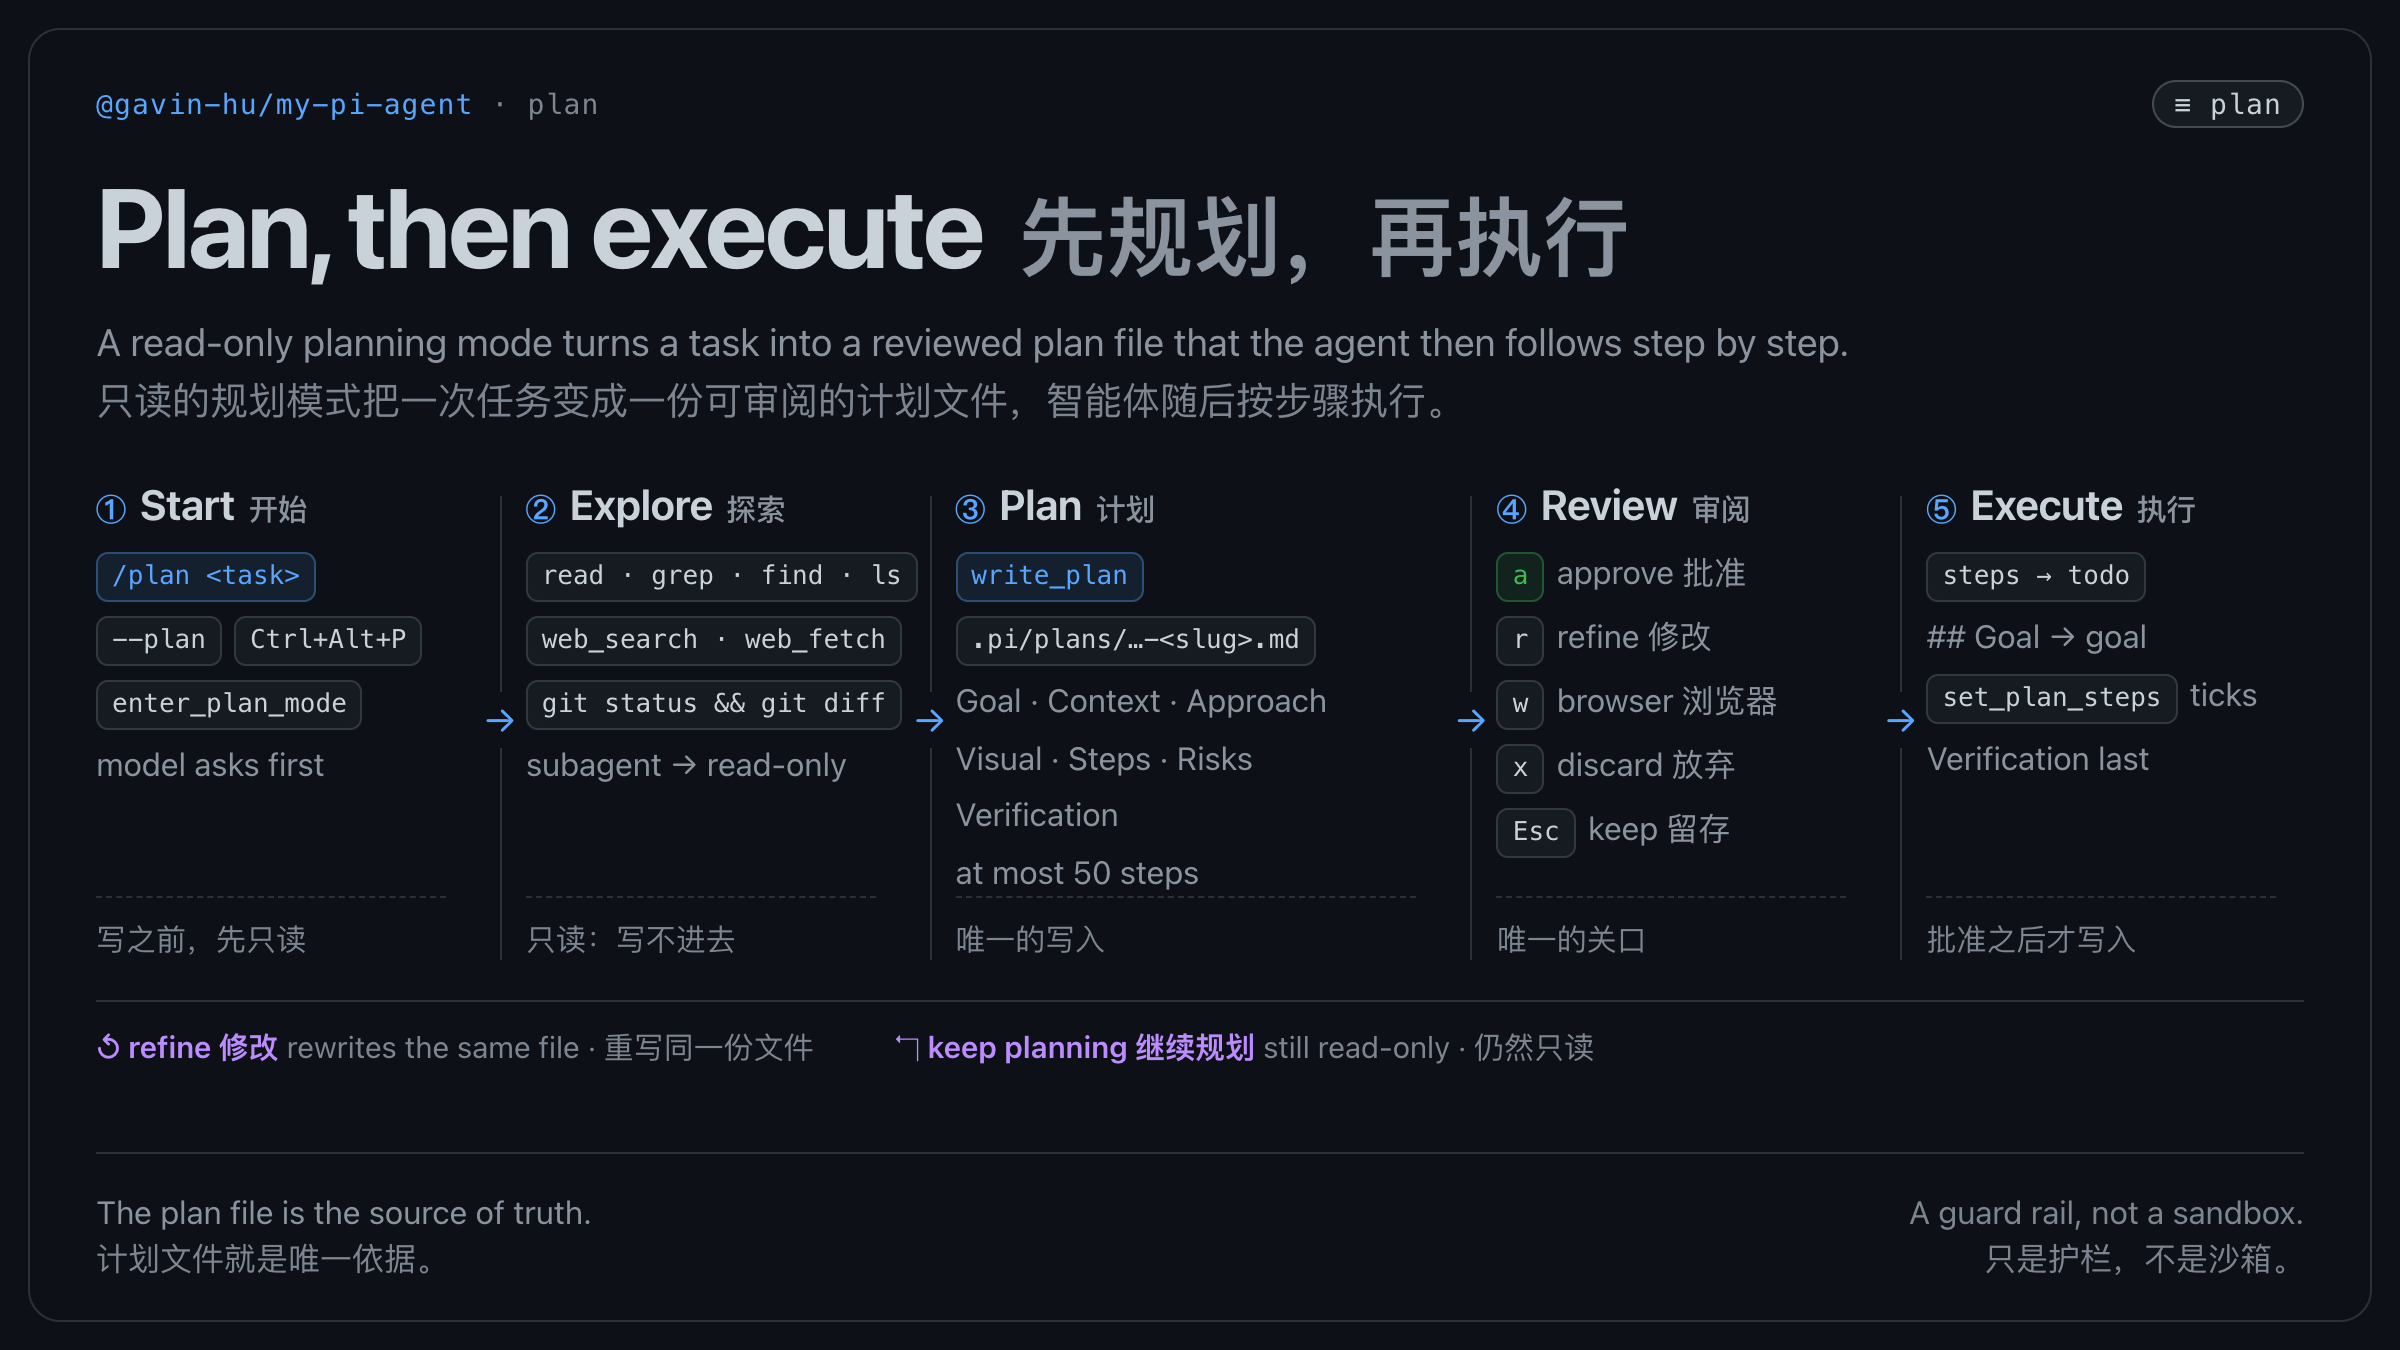
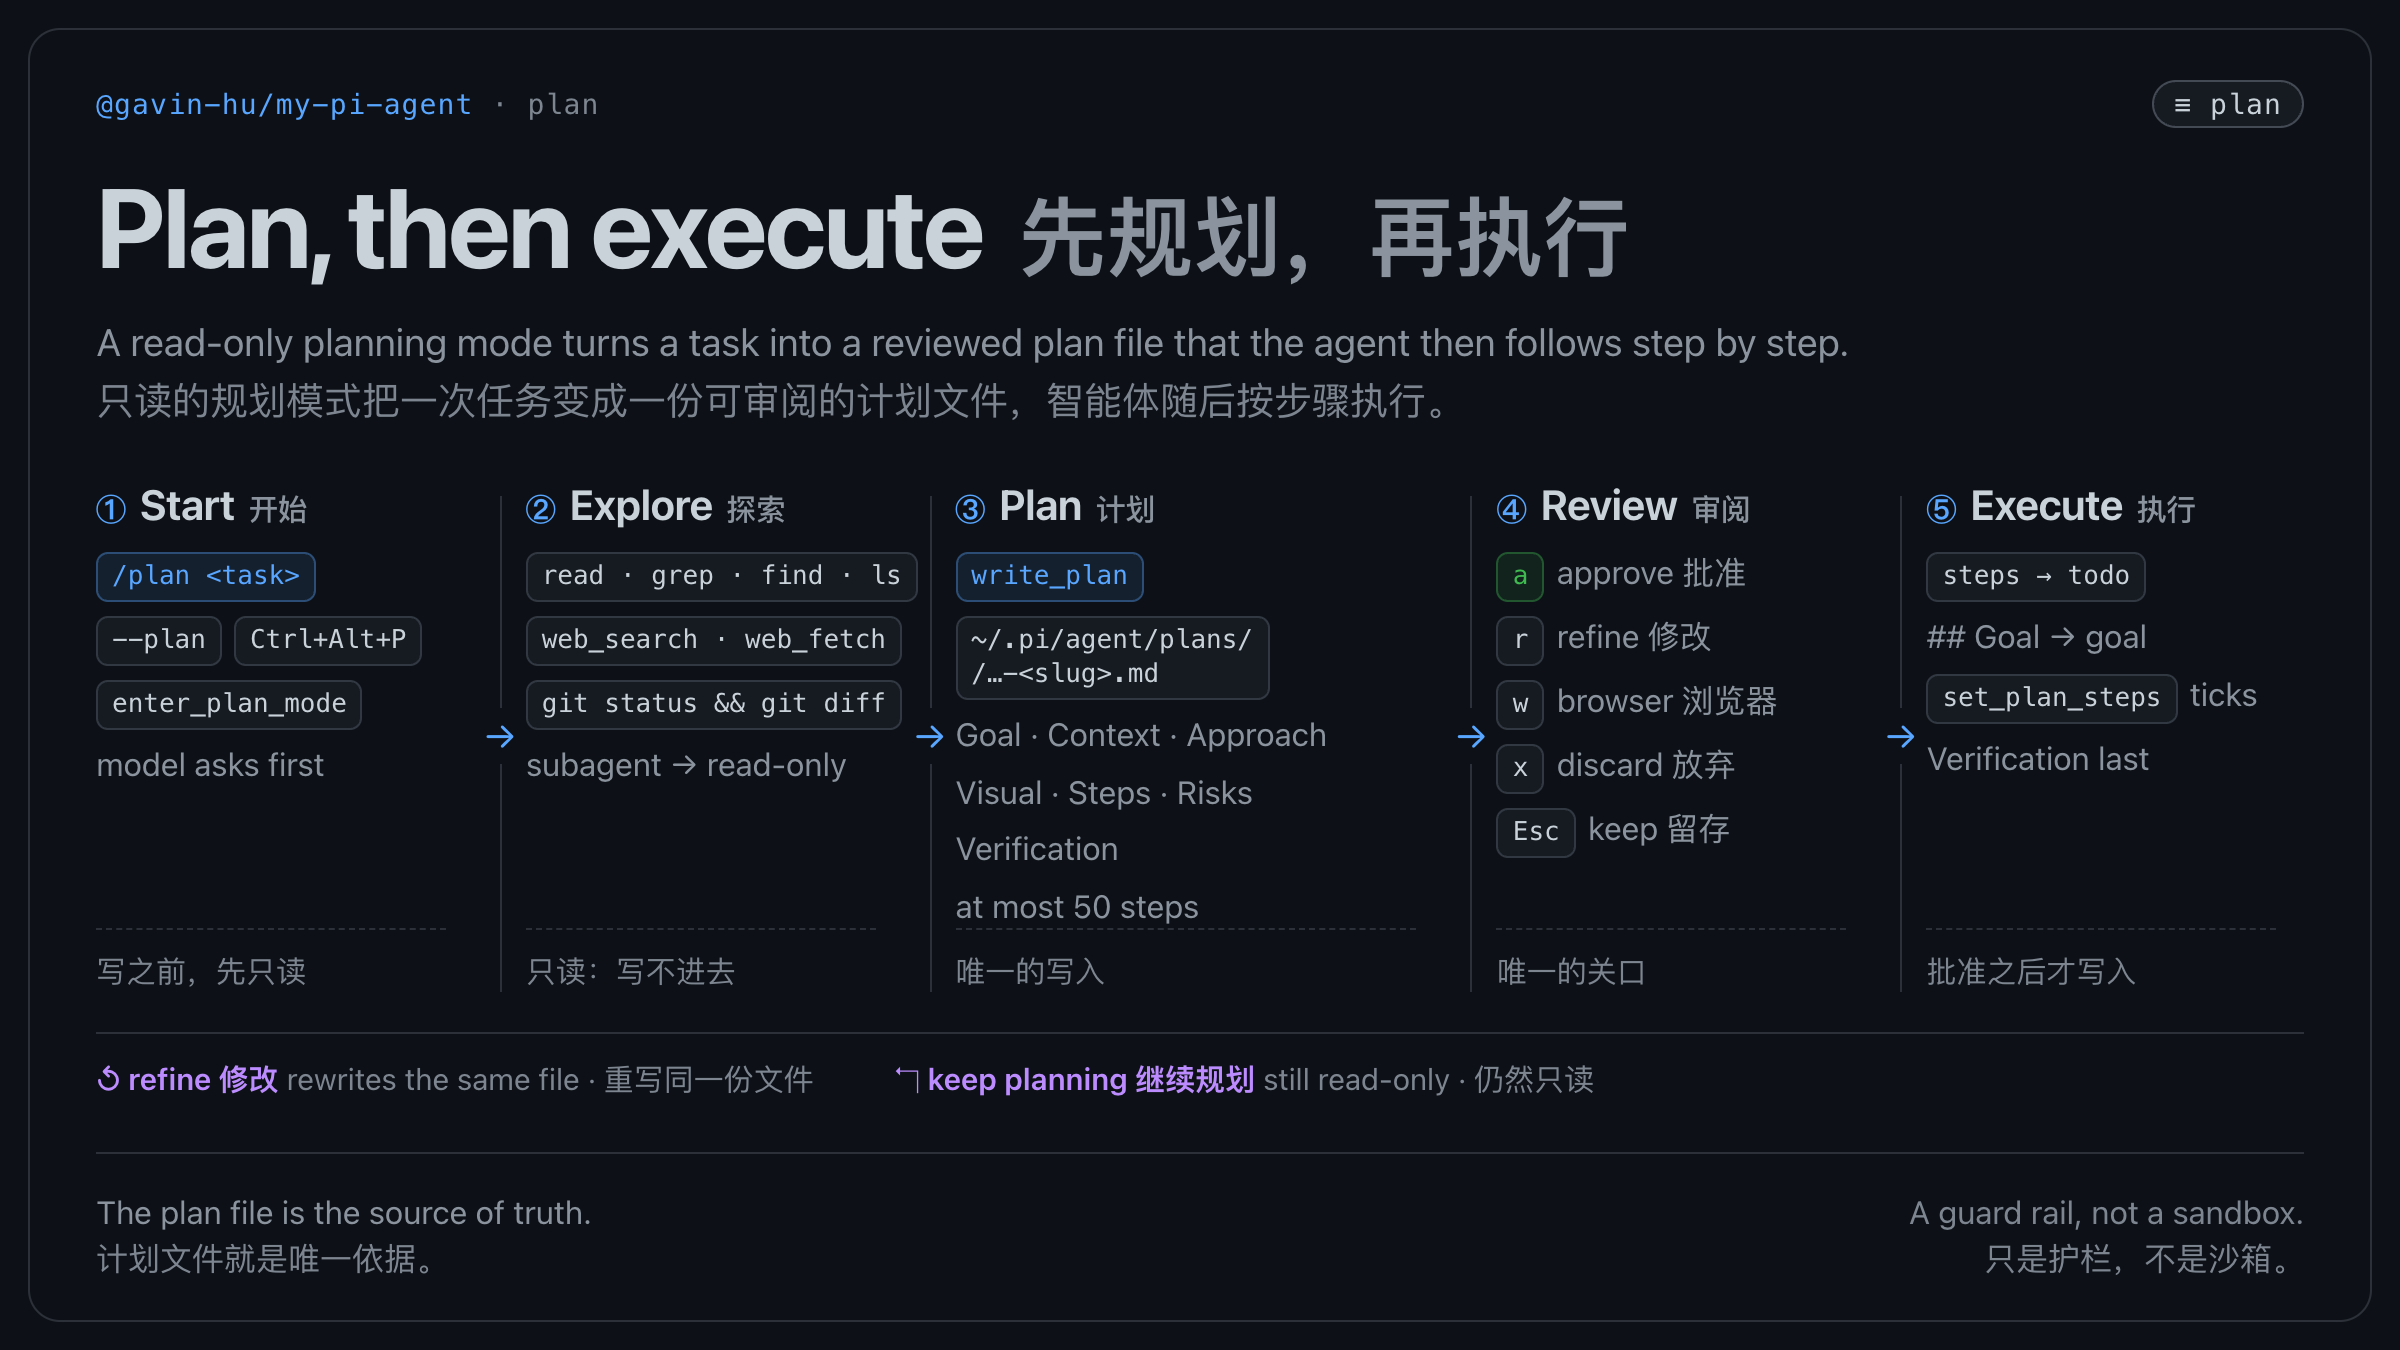
docs(assets): fit the plan path back inside its stage
`977a0428` shortened the plan store to `.pi/plans/` in the copy and lengthened
the card to the real path, `~/.pi/agent/plans/<repo-key>/…-<slug>.md`, without
recapturing the poster. At 13px mono that chip is 329px in a 231px stage, so it
painted 84px into the Review column and over `r refine 修改` — inside the
1200×675 box, which is all the overflow guard measures, so the capture passed.

Two lines keep every character the longer text added: the chip is 157px wide
now, 88px inside its stage, and the arrow gutter between the two stages is
empty again. `plan-flow.png` is recaptured from the fixed page; the card's
lowest content still sits at 641 of 675, so the frame has room.

diff --git a/assets/cards/plan-flow.html b/assets/cards/plan-flow.html
@@ -51,7 +51,7 @@
 					<div class="stage__head"><span class="stage__no">③</span>Plan<span class="stage__zh">计划</span></div>
 					<div class="stage__body">
 						<span class="chip chip--accent">write_plan</span>
-						<span class="chip">~/.pi/agent/plans/&lt;repo-key&gt;/…-&lt;slug&gt;.md</span>
+						<span class="chip">~/.pi/agent/plans/<br /><repo-key>/…-&lt;slug&gt;.md</span>
 						<span class="note">Goal · Context · Approach</span>
 						<span class="note">Visual · Steps · Risks</span>
 						<span class="note">Verification</span>
